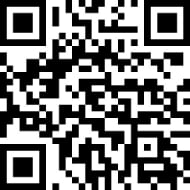
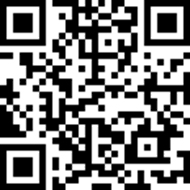
update qrcode image and mobile product name

diff --git a/tw/index_en.html b/tw/index_en.html
@@ -7,7 +7,7 @@
   <meta name="viewport" content="width=device-width, initial-scale=1.0">
   <meta name="author" content="Coupang">
   <meta name="description"
-    content="Coupang Rocket Overseas is one of the biggest e-commerce platforms with millions of product selections ready to be delivered in lightspeed straight to you!">
+    content="Coupang Rocket Overseas is one of the biggest e-commerce platforms with millions of overseas products ready to be delivered in 3 days.">
   <title>Coupang Rocket Overseas</title>
   <link rel="icon" href="./images/favicon.png" type="image/gif" sizes="16x16">
 
@@ -342,17 +342,17 @@
           </div>
       
           <div>
-            <img src="./images/affordable/image8.png">
+            <img src="./images/affordable/image7.png">
             <p>ETUDE 極限萌翹搶眼睫毛膏</p>
-            <p class="price-tag"><del class="del">$352</del> $182</p>
+            <p class="price-tag"><del class="del">$752</del> $434</p>
           </div>
 
           <div>
-            <img src="./images/affordable/image7.png">
+            <img src="./images/affordable/image8.png">
             <p>赫妍 HERA Sun Mate Daily 防曬霜 SPF35 PA+++ 70ml</p>
-            <p class="price-tag"><del class="del">$752</del> $434</p>
+            <p class="price-tag"><del class="del">$352</del> $182</p>
           </div>
-          
+
         </div>
       </div>
 

diff --git a/tw/index_tw.html b/tw/index_tw.html
@@ -326,15 +326,15 @@
           </div>
       
           <div>
-            <img src="./images/affordable/image8.png">
-            <p>ETUDE 極限萌翹搶眼睫毛膏</p>
-            <p class="price-tag"><del class="del">$352</del> $182</p>
+            <img src="./images/affordable/image7.png">
+            <p>ETUDE 極限萌翹搶眼睫毛膏 赫妍</p>
+            <p class="price-tag"><del class="del">$752</del> $434</p>
           </div>
 
           <div>
-            <img src="./images/affordable/image7.png">
-            <p>赫妍 HERA Sun Mate Daily 防曬霜 SPF35 PA+++ 70ml</p>
-            <p class="price-tag"><del class="del">$752</del> $434</p>
+            <img src="./images/affordable/image8.png">
+            <p>HERA Sun Mate Daily 防曬霜 SPF35 PA+++ 70ml</p>
+            <p class="price-tag"><del class="del">$352</del> $182</p>
           </div>
           
         </div>
